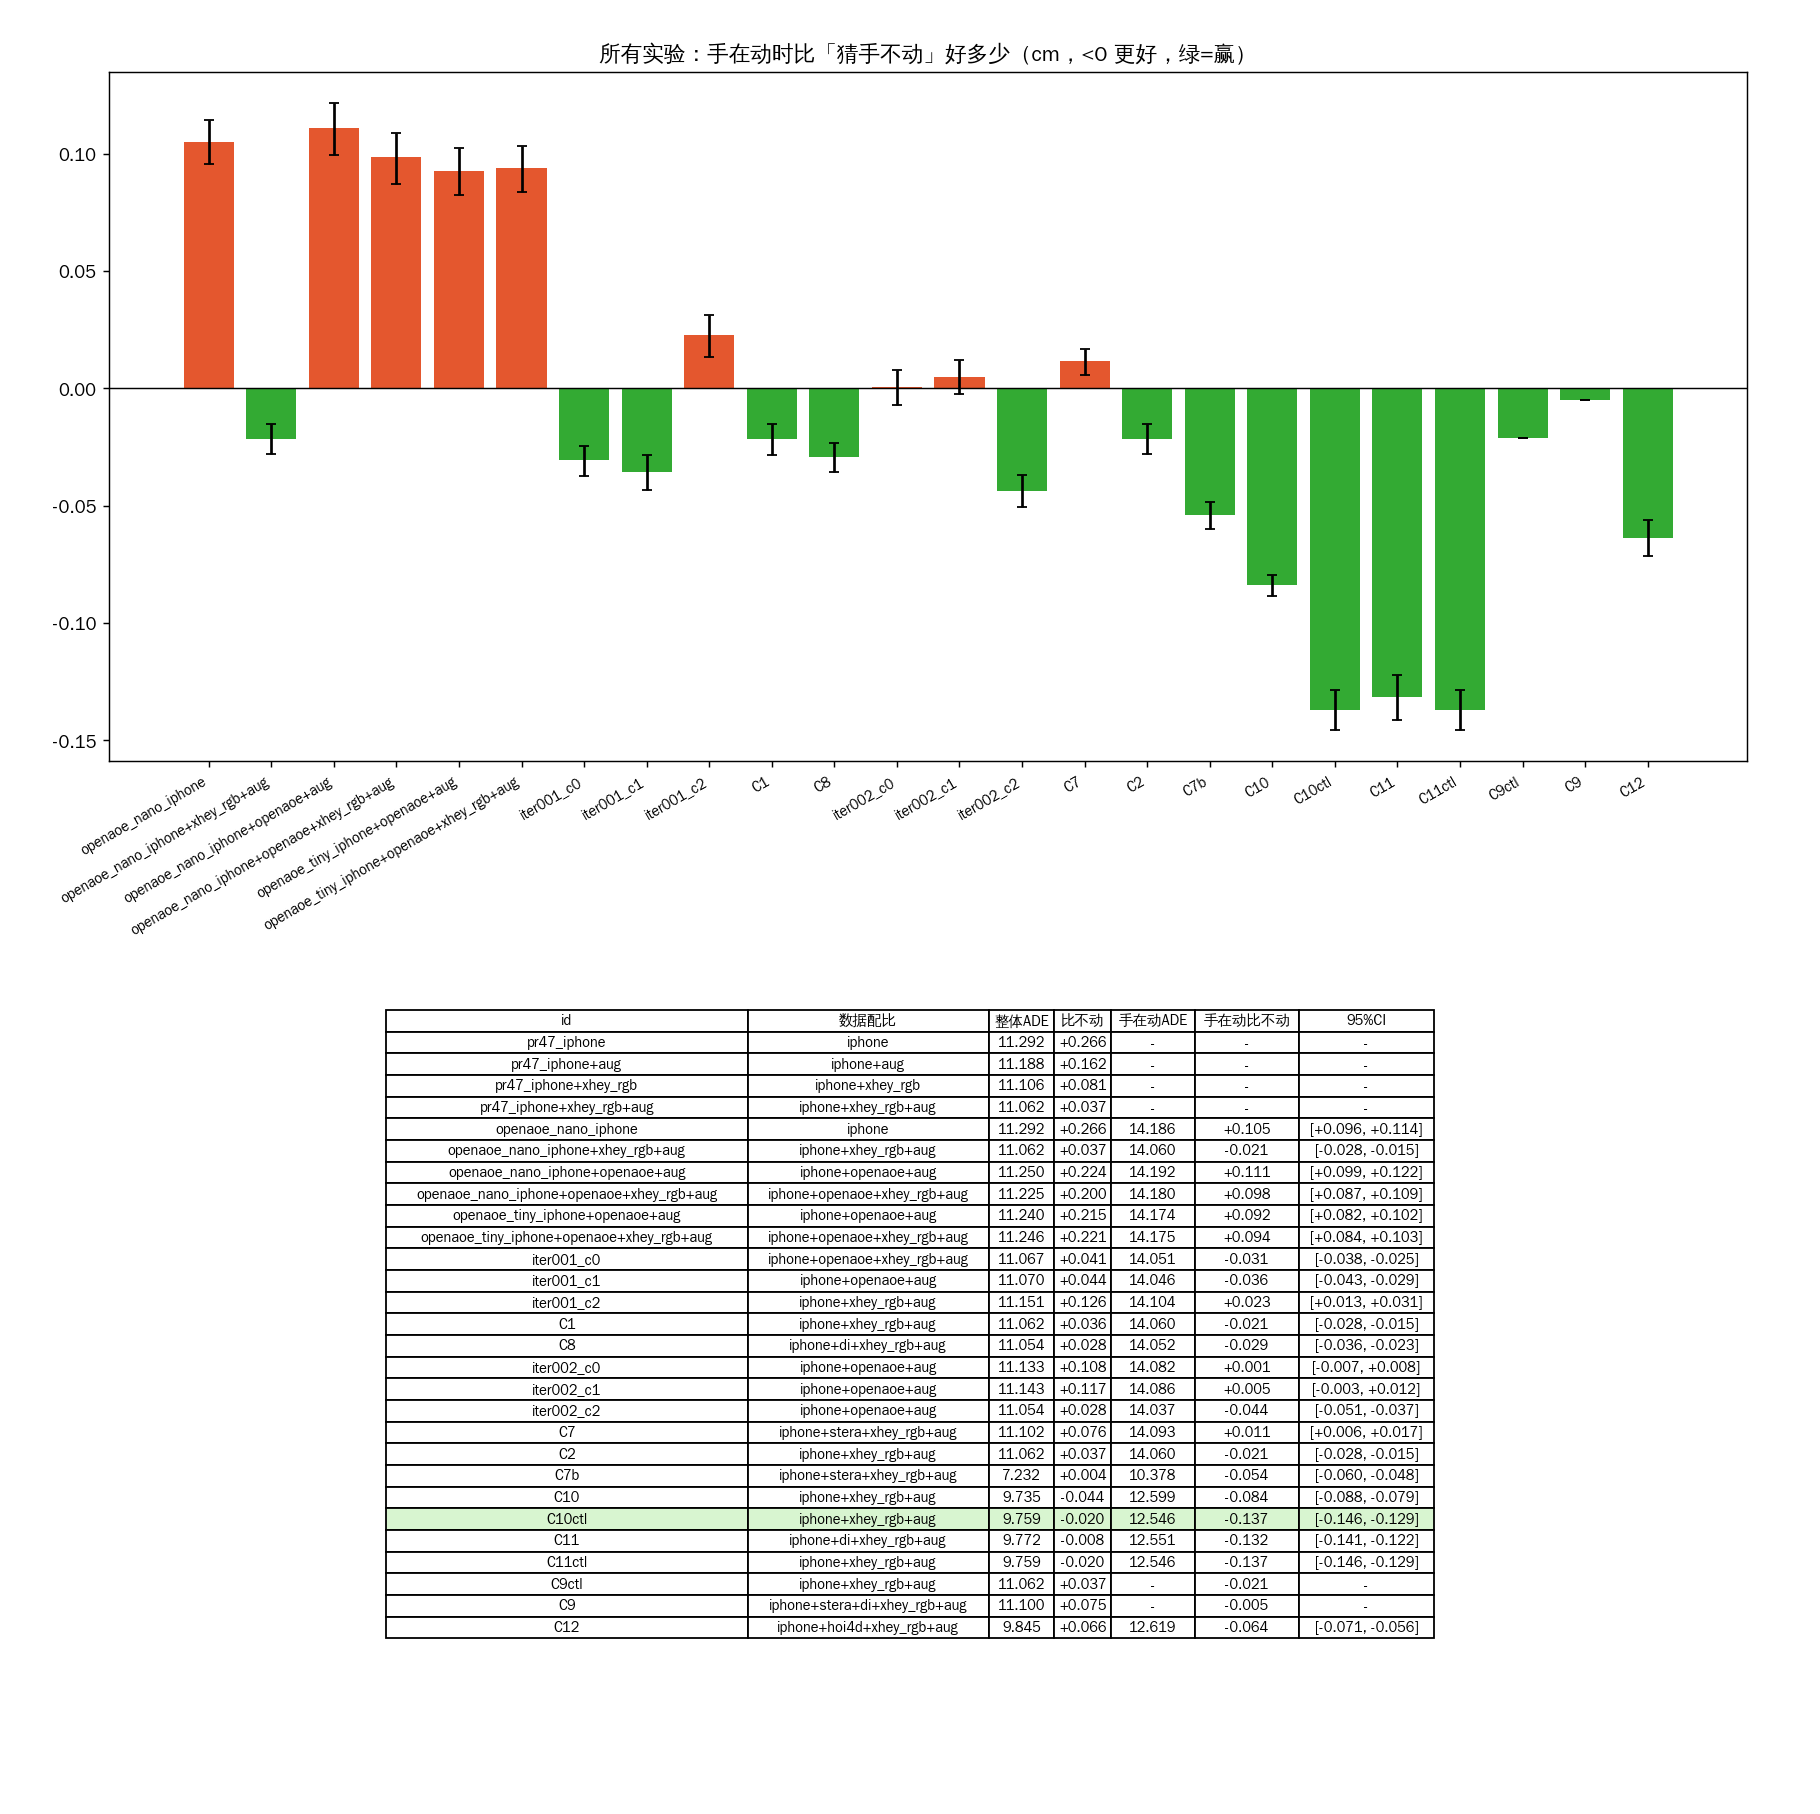
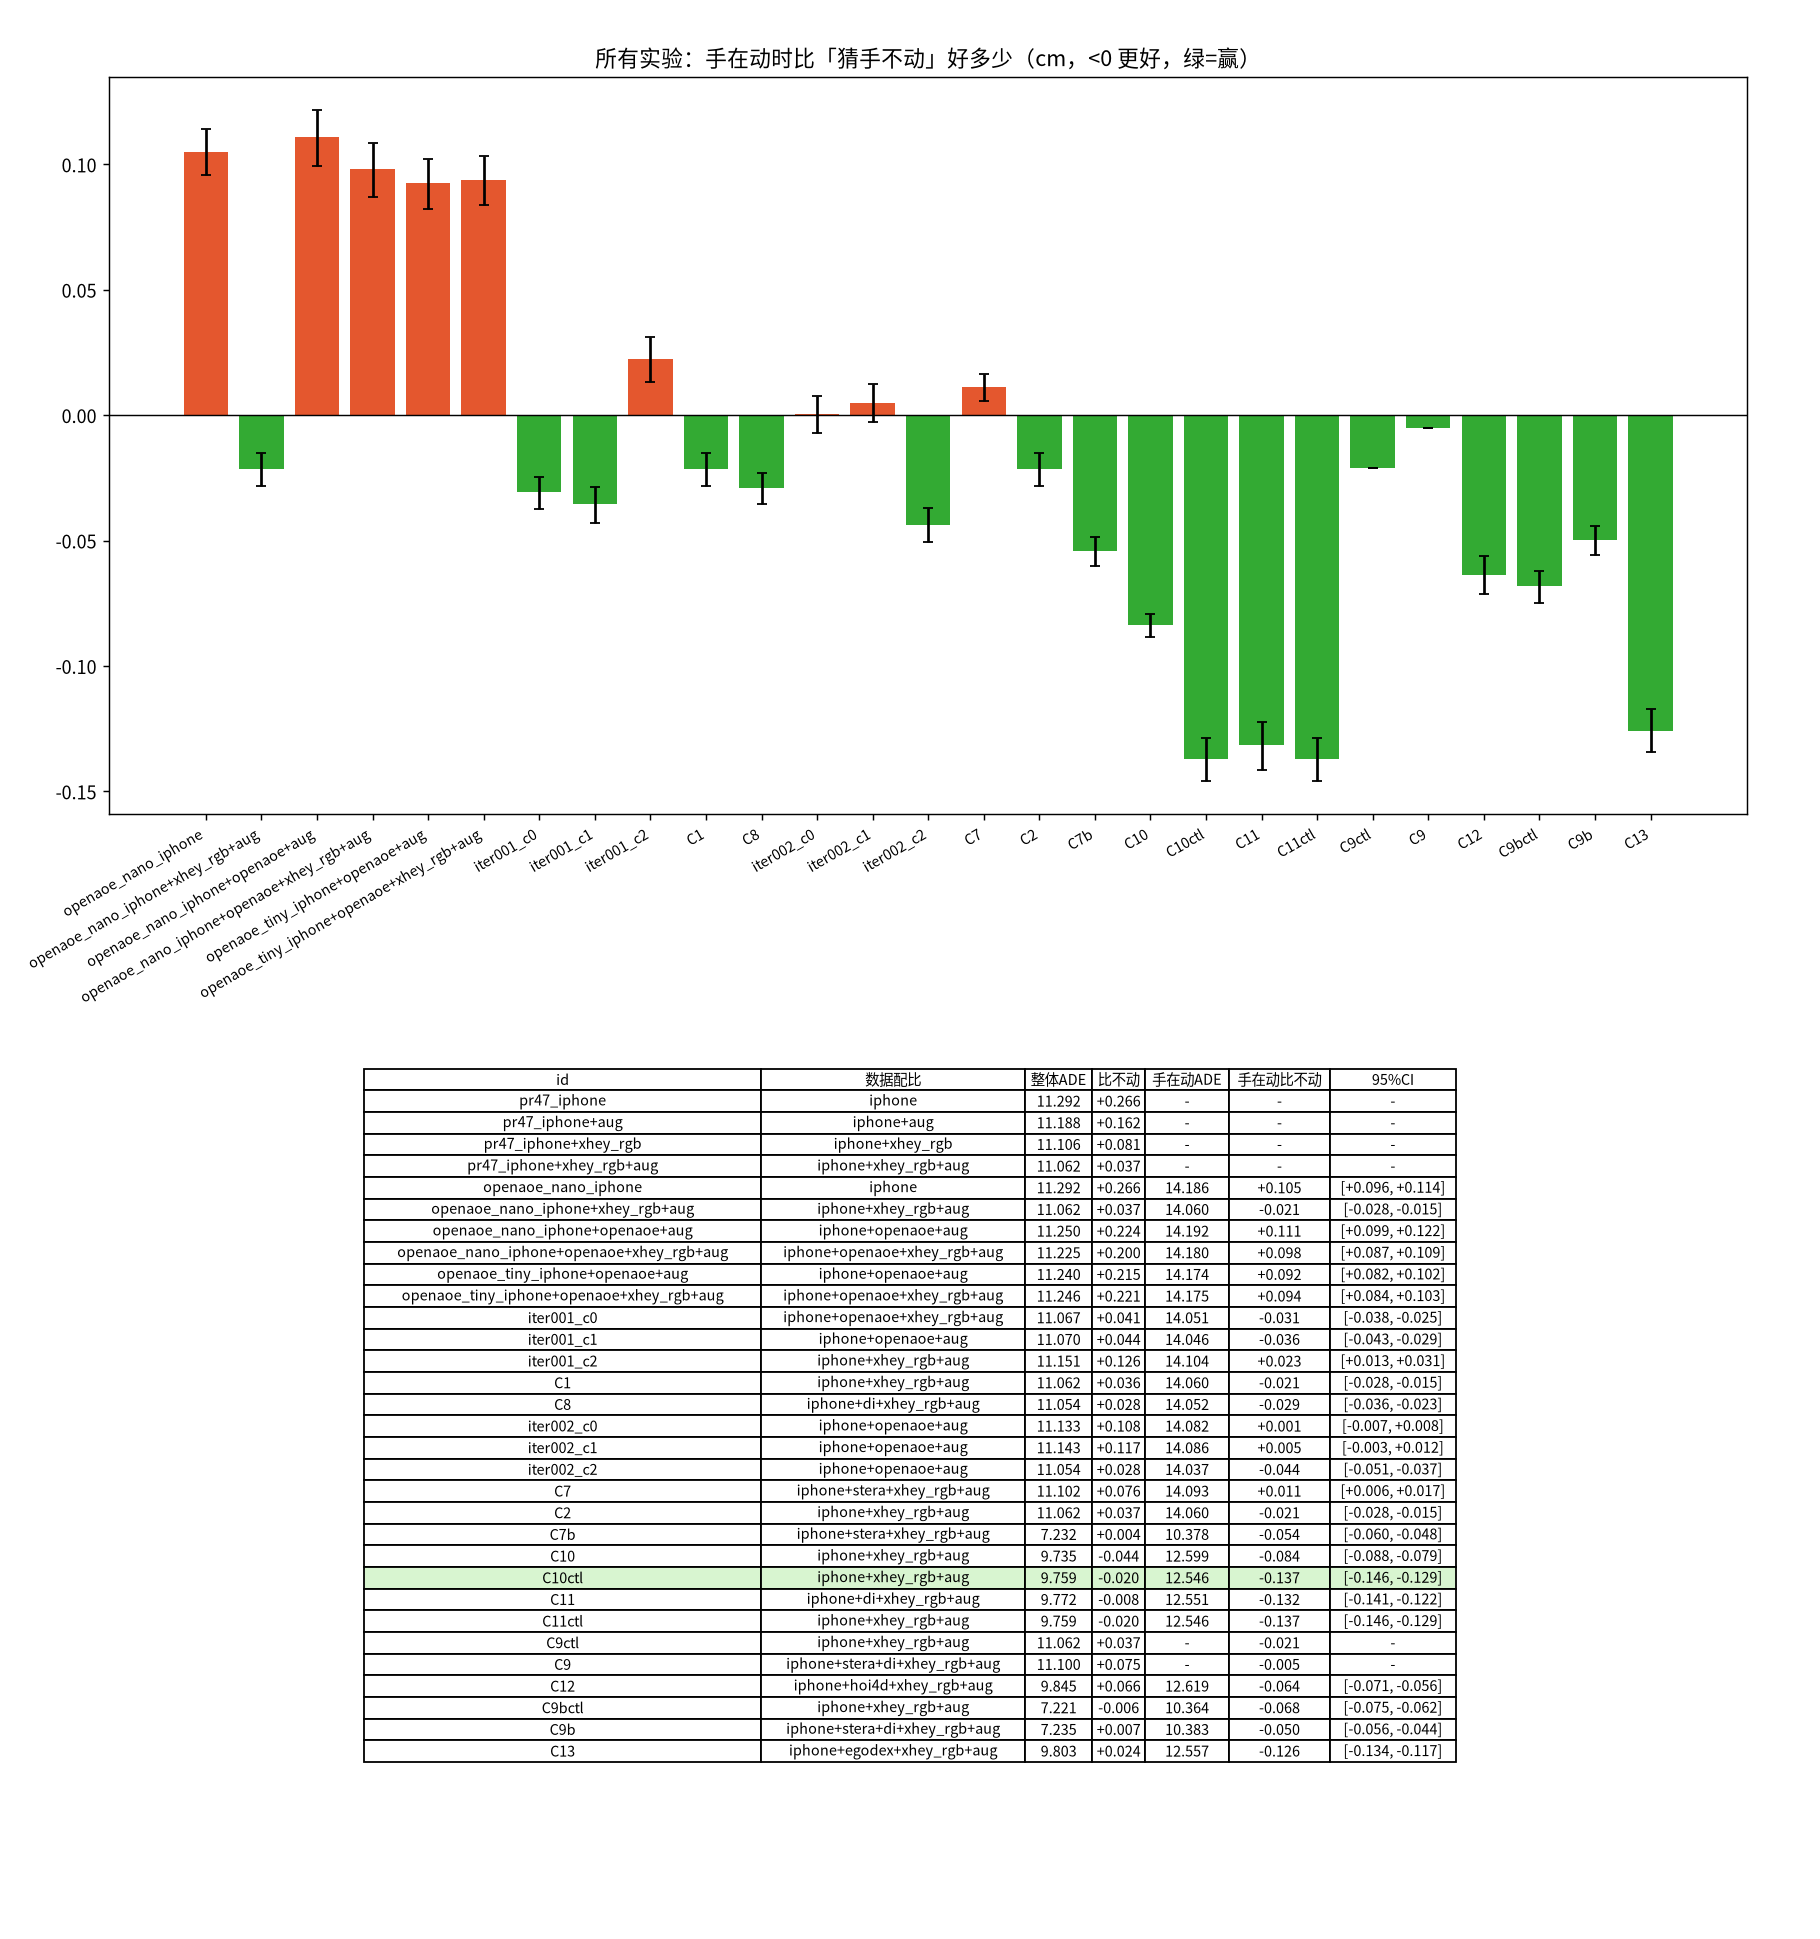
C13 EgoDex 相机系结果入账（未超过同次对照），C14 xPhi 已提交 Kaggle
C13（iphone+egodex+xhey_rgb+aug）整体 ADE 9.803 cm（比 zero +0.024），手在动 12.557 cm（−0.126，95% CI [−0.134, −0.117]）。同次对照 C13ctl 整体 9.759、手在动 −0.137，EgoDex 没超过对照，队列记为 done_worse_vs_ctl。C14（justinz2010/xhey-rsi-c14-xphi）于 2026-10-17 21:27 提交，queue_running 改为 C14。

diff --git a/tests/test_xhey_auto_iter.py b/tests/test_xhey_auto_iter.py
@@ -217,10 +217,10 @@ class CommittedState(unittest.TestCase):
         state = json.loads((ROOT / "experiments" / "auto_state.json").read_text(encoding="utf-8"))
         self.assertIsNone(state["running"])
         qr = state["queue_running"]
-        self.assertEqual(qr["id"], "C13")
-        self.assertEqual(qr["slug"], "justinz2010/xhey-rsi-c13-egodex")
-        self.assertEqual(qr["mix"], "iphone+egodex+xhey_rgb+aug")
-        self.assertEqual(qr["launched"], "2026-10-17 09:20")
+        self.assertEqual(qr["id"], "C14")
+        self.assertEqual(qr["slug"], "justinz2010/xhey-rsi-c14-xphi")
+        self.assertEqual(qr["mix"], "iphone+xphi+xhey_rgb+aug")
+        self.assertEqual(qr["launched"], "2026-10-17 21:27")
         self.assertNotIn("queue_running_also", state)
         q = json.loads((ROOT / "docs" / "xhey" / "queue.json").read_text(encoding="utf-8"))
         ids = [i["id"] for i in q["queue"]]
@@ -276,19 +276,32 @@ class CommittedState(unittest.TestCase):
         self.assertIn("6000", c9b["protocol"])
         self.assertIn("3000", c9b["protocol"])
         ok, skipped = ai.split_qc_ready(ai.ready_queue_items(stera_exists=True, queue=q))
-        self.assertEqual([item["id"] for item in ok], ["C14"])
+        self.assertEqual([item["id"] for item in ok], [])
         self.assertEqual(skipped, [])
         c13 = by_id["C13"]
-        self.assertEqual(c13["status"], "running")
+        self.assertEqual(c13["status"], "done_worse_vs_ctl")
+        self.assertEqual(c13["mix"], "iphone+egodex+xhey_rgb+aug")
+        self.assertEqual(c13["result"]["C13_overall_ade_cm"], 9.803)
+        self.assertEqual(c13["result"]["C13_delta_overall_cm"], 0.024)
+        self.assertEqual(c13["result"]["C13_moving_ade_cm"], 12.557)
+        self.assertEqual(c13["result"]["C13_moving_minus_zero_cm"], -0.126)
+        self.assertEqual(c13["result"]["C13_moving_ci95"], [-0.134, -0.117])
+        self.assertEqual(c13["result"]["C13ctl_overall_ade_cm"], 9.759)
+        self.assertEqual(c13["result"]["C13ctl_moving_minus_zero_cm"], -0.137)
+        self.assertEqual(c13["result"]["C13ctl_moving_ci95"], [-0.146, -0.129])
+        self.assertEqual(c13["result"]["zero_overall_ade_cm"], 9.779)
         self.assertIn("undefined HO", c13["note_v1"])
         self.assertIn("credentials were missing", c13["note_v1"])
         self.assertIn("2026-10-17 09:20", c13["relaunched_v2"])
+        self.assertEqual(c13["ingested"], "2026-10-17 21:27")
         self.assertTrue(ai.kernel_has_qc_filter(c13))
         c13_src = (ROOT / "kaggle" / "rsi_c13" / "xhey-rsi-c13-egodex.py").read_text(encoding="utf-8")
         self.assertIsNone(re.search(r"\bHO\b", c13_src))
         self.assertIn("EG = find", c13_src)
         c14 = by_id["C14"]
-        self.assertEqual(c14["status"], "ready")
+        self.assertEqual(c14["status"], "running")
+        self.assertEqual(c14["slug"], "justinz2010/xhey-rsi-c14-xphi")
+        self.assertEqual(c14["launched"], "2026-10-17 21:27")
         self.assertEqual(c14["mix"], "iphone+xphi+xhey_rgb+aug")
         self.assertIn("WiLoR", c14["caveats"])
         self.assertIn("HFOV 90", c14["caveats"])
@@ -369,6 +382,18 @@ class CommittedState(unittest.TestCase):
         self.assertEqual(c9bctl["delta_overall_cm"], -0.005726396152587624)
         self.assertEqual(c9bctl["moving_ade_cm"], 10.364363733614738)
         self.assertEqual(c9bctl["delta_moving_cm"], -0.06817380327106637)
+        self.assertEqual(ids.count("C13"), 1)
+        c13row = rows["C13"]
+        self.assertEqual(c13row["status"], "ok")
+        self.assertEqual(c13row["date"], "2026-10-17 21:27")
+        self.assertEqual(c13row["source"], "justinz2010/xhey-rsi-c13-egodex")
+        self.assertEqual(c13row["config"]["mix"], "iphone+egodex+xhey_rgb+aug")
+        self.assertEqual(c13row["overall_ade_cm"], 9.8031111699139)
+        self.assertEqual(c13row["zero_overall_ade_cm"], 9.77909130440752)
+        self.assertEqual(c13row["delta_overall_cm"], 0.02401986550637711)
+        self.assertEqual(c13row["moving_ade_cm"], 12.557135490486884)
+        self.assertEqual(c13row["delta_moving_cm"], -0.1257617720642352)
+        self.assertEqual(c13row["delta_moving_ci95"], [-0.1344363025584355, -0.11697807499012294])
 
 
 def _kernel_metrics(mix, moving=-0.05):

diff --git a/docs/xhey_ledger.md b/docs/xhey_ledger.md
@@ -33,7 +33,9 @@
 
 **C9b（2026-10-16）**：C9b = Stera 五批 + DI（相机系脚本）+ iPhone + xhey_rgb + aug，内核 `justinz2010/xhey-rsi-c9b-stera-di-qc`。评测是质检后的 2 段留出（`2026-08-22_18-21`、`2026-08-24_21-18`），数字来自 `xhey_c9b/metrics.json` 的 `ade_cm_pooled`，不是日志里四舍五入到两位的那一行。zero 整体 7.227 cm；C9bctl（`iphone+xhey_rgb+aug`）7.221 cm（−0.006）、手在动相对 zero −0.068；C9b（`iphone+stera+di+xhey_rgb+aug`）7.235 cm（+0.007，95% 区间 [0.004, 0.011]）、手在动 10.383 cm（−0.050，[−0.056, −0.044]）。口头报的整体 7.24 对不上：pooled 是 7.234595，内核日志印成 7.23。C9b 整体和手在动都不如同一次对照，整体还差于 zero。和 C12 同一条规则（没超过对照，且整体比 zero 差）队列结论 **done_worse_vs_ctl**。C11 是另一条：没超过对照，但整体仍不差于 zero，所以是 done_no_gain_vs_ctl。`ledger.csv` 的 status 列按镜像规则是 win_moving，只表示手在动的置信区间整段落在 0 以下；这不是实验结论。内核日志里 DI 的 25 段不在传给 `--qc-filter` 的成绩单里，被原样保留。
 
-唯一循环驱动是 `scripts/xhey_auto_iter.py`：先收已完成的固定内核，再按 [`docs/xhey/queue.json`](xhey/queue.json) 提交就绪候选。新候选默认必须带 `--qc-filter`。`queue_running` 已清空，没有队列内核占着 GPU。C13 停在 **ready_to_relaunch**：main 上的 `kaggle/rsi_c13/xhey-rsi-c13-egodex.py` 已经用 `EG` 而不是未定义的 `HO`，但这台环境没有 Kaggle 凭证，没有重交。C14 的 HF 门控已打开（`skyxiaobaibai` 能列出 `xPhi-Ego-100/data`），状态改为 **ready**；还没有 `kaggle/rsi_c14` 脚本，也还没有 `xphi` 数据源，这次不启动预训练。
+**C13（2026-10-17）**：C13 = EgoDex 预训练（相机光学系，Vision Pro ARKit 关节，`iphone+egodex+xhey_rgb+aug`），内核 `justinz2010/xhey-rsi-c13-egodex`（v2，2026-10-17 09:20 重交，21:27 入账）。同一次对照 C13ctl 不加 EgoDex（`iphone+xhey_rgb+aug`）。C13 整体 ADE 9.803 cm（比 zero 9.779 +0.024）、手在动 12.557 cm（−0.126，95% 区间 [−0.134, −0.117]）；C13ctl 整体 9.759 cm、手在动相对 zero −0.137（[−0.146, −0.129]）。EgoDex 在手在动上赢了「猜手不动」，但没有超过同一次对照，整体更差。队列结论 **done_worse_vs_ctl**。`ledger.csv` 的 status 列按镜像规则是 win_moving，只表示手在动的置信区间整段落在 0 以下；这不是实验结论。图：[`experiments/report/C13/`](../experiments/report/C13/)。
+
+唯一循环驱动是 `scripts/xhey_auto_iter.py`：先收已完成的固定内核，再按 [`docs/xhey/queue.json`](xhey/queue.json) 提交就绪候选。新候选默认必须带 `--qc-filter`。正在占 GPU 的是 **C14**（`justinz2010/xhey-rsi-c14-xphi`，`iphone+xphi+xhey_rgb+aug`，2026-10-17 21:27 提交）；有内核在跑时不抢占。
 
 ---
 

diff --git a/experiments/report/C13/README.md b/experiments/report/C13/README.md
@@ -1,0 +1,7 @@
+# C13
+
+![](ade.png)
+![](per_clip.png)
+![](horizon.png)
+![](loss_curves.png)
+![](trajectory.png)
